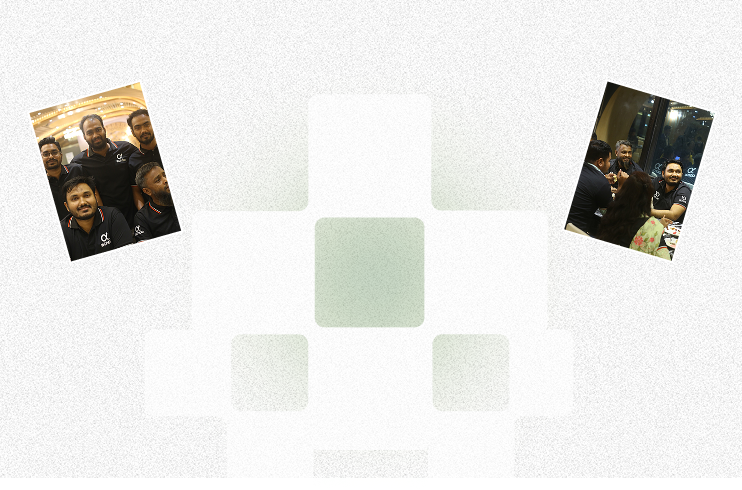
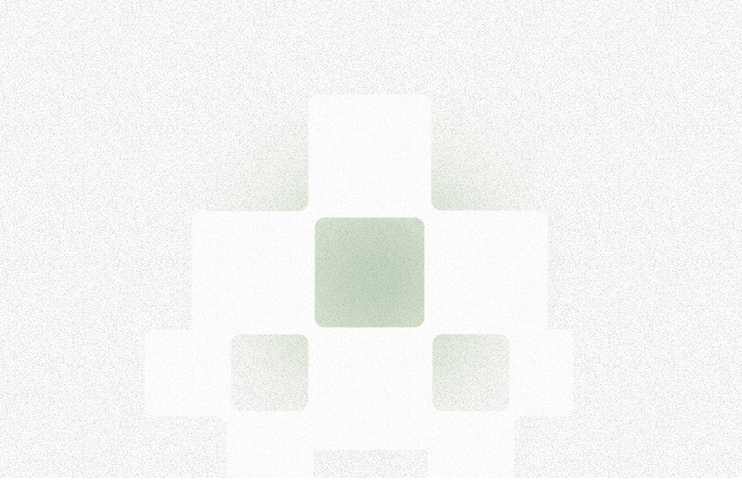
update about

Changed region(s): [[0.7439, 0.1531, 0.9609, 0.551], [0.031, 0.1531, 0.248, 0.551]]

diff --git a/src/app/(website)/about/components/CompanyInside.tsx b/src/app/(website)/about/components/CompanyInside.tsx
@@ -3,6 +3,9 @@ import React from "react";
 import CountUp from "react-countup";
 import { useInView } from "react-intersection-observer";
 import { motion } from "framer-motion";
+import company1 from '/public/about/companyimg_1.png';
+import company2 from '/public/about/companyimg_2.png';
+import Image from "next/image";
 
 const CompanyInside = () => {
   const { ref, inView } = useInView({ triggerOnce: true, threshold: 0.3 });
@@ -26,23 +29,33 @@ const CompanyInside = () => {
         whileInView="animate"
         transition={{ duration: 0.7 }}
         viewport={{ once: true, amount: 0.4 }}
-        className="lg:pt-0 md:pt-11 pt-6 text-[40px] md:text-[55px] lg:text-[90px] font-bold text-primary text-center uppercase leading-10 lg:leading-[99px] lg:mb-[181px]"
-      >
+        className="lg:pt- 0 md:pt-11 pt-6 text-[40px] md:text-[55px] lg:text-[90px] font-bold text-primary text-center uppercase leading-10 lg:leading-[99px] lg:mb-[181px] heading_company">
         company <br />
         <span className="text-[30px] md:text-[40px] lg:text-[80px] font-medium">
           inside..
         </span>
       </motion.h1>
+      <Image
+        className="absolute 
+        top-[36%] right-[21%] float-animation company_img1"
+        src={company1}
+        alt=""
+      />
+
+      <Image
+        className="absolute top-[36%] left-[21%] float-reverse company_img2"
+        src={company2}
+        alt=""
+      />
 
       {/* Mobile Section */}
       <div className="lg:hidden md:hidden company_mobile flex px-8 mt-[58px] justify-between">
         {data.map(({ label, end, suffix }, i) => (
           <div
             key={label}
-            
-            className={`text-center ${
-              i === 1 ? "absolute top-[160px] left-[133px] comapny_first_count" : "mt-[60px]"
-            }`}
+
+            className={`text-center ${i === 1 ? "absolute top-[160px] left-[133px] comapny_first_count" : "mt-[60px]"
+              }`}
           >
             <motion.p
               variants={fadeUp}
@@ -64,7 +77,7 @@ const CompanyInside = () => {
       </div>
 
       {/* Large screen */}
-      <div className="lg:px-[277px] lg_screen_px px-8 lg:flex md:flex company_inside hidden lg:mt-0 mt-[190px] justify-between">
+      <div className="lg:px-[277px] lg_screen_px px-8 lg:flex md:flex company_inside hidden lg:mt-0 mt-[190px] justify-between relative">
         {data.map(({ label, end, suffix }, i) => (
           <motion.div
             key={label}

diff --git a/src/app/globals.css b/src/app/globals.css
@@ -988,9 +988,31 @@ input[type="range"]::-moz-range-thumb {
 }
 
 @media (min-width:320px) and (max-width:699px) {
+
+  /* about */
+  .company_img1 {
+    width: 97px;
+    height: 100px;
+    top: 22%;
+    right: 4%;
+  }
+
+  .company_img2 {
+    width: 97px;
+    height: 100px;
+    top: 22%;
+    left: 4%;
+  }
+
+  /* about */
+
   .buisness_left_img {
     left: 2%;
     bottom: 14%;
+  }
+
+  .case_portfolio_wrap {
+    margin-inline: 16px;
   }
 
   .buisness_1 {
@@ -1417,7 +1439,38 @@ input[type="range"]::-moz-range-thumb {
 
 }
 
+@keyframes floatUpDown {
+
+  0%,
+  100% {
+    transform: translateY(0);
+  }
+
+  50% {
+    transform: translateY(-10px);
+  }
+}
+
+.float-animation {
+  animation: floatUpDown 3s ease-in-out infinite;
+}
+
+.float-reverse {
+  animation: floatUpDown 3s ease-in-out infinite;
+  animation-direction: alternate;
+}
+
+
 @media (min-width:700px) and (max-width:744px) {
+
+  /* about */
+  .social_md_icons {
+    column-gap: 9px;
+  }
+
+  /* about */
+
+
 
   .compatible_wrapppers {
     gap: 110px !important;
@@ -1463,6 +1516,29 @@ input[type="range"]::-moz-range-thumb {
 }
 
 @media (min-width:700px) and (max-width:1023px) {
+  .member_grid {
+    grid-template-columns: repeat(2, minmax(0, 1fr)) !important;
+
+  }
+
+  .company_img1 {
+    top: 22% !important;
+    right: 5% !important;
+  }
+
+  .heading_company {
+    font-size: 55px;
+    padding-top: 44px;
+  }
+
+  .heading_company span {
+    font-size: 40px;
+  }
+
+  .company_img2 {
+    top: 22% !important;
+    left: 5% !important;
+  }
 
   /* case study */
   .bannerText_m {
@@ -2354,6 +2430,15 @@ input[type="range"]::-moz-range-thumb {
 }
 
 @media (min-width:1024px) and (max-width:1279px) {
+
+  .company_img1 {
+    right: 5%;
+  }
+
+  .company_img2 {
+    left: 5%;
+  }
+
   .buisness_main_img {
     width: 800px;
   }
@@ -2887,6 +2972,15 @@ input[type="range"]::-moz-range-thumb {
 }
 
 @media (min-width:1280px) and (max-width:1440px) {
+
+  .company_img1 {
+    right: 21%;
+  }
+
+  .company_img2 {
+    left: 21%;
+  }
+
   .products_parent {
     padding-inline: 80px;
   }
@@ -3270,6 +3364,13 @@ input[type="range"]::-moz-range-thumb {
 
 
 @media (min-width:1806px) and (max-width:1920px) {
+  .company_img1 {
+    right: 17%;
+  }
+
+  .company_img2 {
+    left: 17%;
+  }
 
   .products_parent {
     padding-inline: 215px;

diff --git a/src/app/(website)/about/components/OurMembers.tsx b/src/app/(website)/about/components/OurMembers.tsx
@@ -121,7 +121,7 @@ const OurMembers = () => {
         viewport={{ once: true, amount: 0.3 }}
         className="text-white text-start mb-8"
       >
-        <div className="flex justify-between our_member_wrapper items-end  mb-10 ">
+        <div className="flex justify-between our_member_wrapper items-end mb-4 lg:mb-10 ">
           <div>
             <p className="text-[#F52366] text-base font-bold mb-1 flex gap-1 items-center">
               <svg
@@ -142,7 +142,7 @@ const OurMembers = () => {
               OUR MEMBERS
             </h2>
           </div>
-          <div className="hidden md:flex our_member_btn1 lg:mt-[60px] mt-6 justify-center">
+          <div className="hidden md_flex md:flex our_member_btn1 lg:mt-[60px] mt-6 justify-center">
             <button className="   hover:bg-transparent border border-[#2353F5] bg-[#2353F5] flex gap-2 items-center justify-center  text-white text-base font-bold lg:py-[21px] px-6 py-[13px] lg:px-[36px] rounded-[10px] transition">
               Join Our Team Today
               <svg
@@ -163,7 +163,7 @@ const OurMembers = () => {
       </motion.div>
 
       {/* Member cards */}
-      <div className="grid lg:grid-cols-3 sm:grid-cols-1 md:grid-cols-2 gap-4 md:gap-[18px] lg:gap-6 max-w-6xl mx-auto">
+      <div className="grid lg:grid-cols-3 sm:grid-cols-1 md:grid-cols-2 gap-4 md:gap-[18px] lg:gap-6 max-w-6xl mx-auto  member_grid">
         {teamMembers.map((member, idx) => (
           <motion.div
             key={member.id}
@@ -201,7 +201,7 @@ const OurMembers = () => {
         whileInView="whileInView"
         transition={{ duration: 0.7, delay: teamMembers.length * 0.1 }}
         viewport={{ once: true }}
-        className="lg:mt-[60px] mt-6 lg:hidden flex justify-center"
+        className="lg:mt-[60px] mt-6 lg:hidden md_hidden flex justify-center"
       >
         <button className="flex gap-2 items-center justify-center 
         hover:bg-transparent border border-[#2353F5] bg-[#2353F5]  text-white text-base font-bold capitalize lg:py-[21px] px-6 py-[13px] lg:px-[36px] rounded-[10px] transition-all ease-in-out duration-500">

diff --git a/src/app/(website)/about/components/AboutBanner.tsx b/src/app/(website)/about/components/AboutBanner.tsx
@@ -124,6 +124,7 @@ import { IoLogoDribbble } from "react-icons/io";
 import arrow from "/public/about/arrow.png";
 import Image from "next/image";
 import { motion } from "framer-motion";
+import Link from "next/link";
 
 const fadeIn = (delay = 0) => ({
   hidden: { opacity: 0, y: 40 },
@@ -170,7 +171,7 @@ const AboutBanner = () => {
               Dhaka, Bangladesh
             </p>
           </div>
-          <a href="#" className="text-blue-600 hover:underline">
+          <Link href="#" className="text-blue-600 hover:underline">
             <svg
               xmlns="http://www.w3.org/2000/svg"
               width="18"
@@ -186,7 +187,7 @@ const AboutBanner = () => {
                 strokeLinejoin="round"
               />
             </svg>
-          </a>
+          </Link>
         </motion.div>
 
         {/* Main Title */}
@@ -223,7 +224,7 @@ const AboutBanner = () => {
       {/* Social Icons */}
       <motion.div
         variants={staggerContainer}
-        className="absolute right-10 lg:right-[50px] social_md_icons md:top-1/2 lg:top-1/2 transform -translate-y-1/2 flex flex-row md:flex-col lg:flex-col space-y-4 space-x-4"
+        className="absolute right-10 lg:right-[50px] social_md_icons md:top-1/2 lg:top-1/2 transform -translate-y-1/2 flex flex-row md:flex-col lg:flex-col space-y-2.5 lg:space-y-4 space-x-4"
       >
         {socialIcons.map((Icon, index) => (
           <motion.div

diff --git a/src/app/(website)/about/components/Roadmap.tsx b/src/app/(website)/about/components/Roadmap.tsx
@@ -37,7 +37,7 @@ const fadeUp = {
 
 const Roadmap = () => {
   return (
-    <div className="lg:py-[120px] lg_screen_px md:py-[30px] py-6 lg:px-[150px] md:px-5 px-0">
+    <div className="lg:py-[120px] lg_screen_px md:py-[30px] py-6 lg:px-[150px] px-5 ">
       <div className="grid grid-cols-12 justify-center">
         <motion.div
           className="col-span-12 lg:col-span-4"
@@ -48,7 +48,7 @@ const Roadmap = () => {
           viewport={{ once: true, amount: 0.3 }}
         >
           <div className="flex lg:flex-col flex-row justify-between items-center lg:mb-0 md:mb-5 mb-6">
-            <div className="lg:px-0 md:px-0 px-5">
+            <div className="">
               <p className="text-[#F52366] text-base font-bold flex gap-2 items-center">
                 {/* SVG omitted for brevity */}
                 Roadmap about company
@@ -82,7 +82,7 @@ const Roadmap = () => {
                   </span>
                 </div>
                 <div>
-                  <h3 className="w-[172px] text-xl lg:text-[28px] font-bold leading-[32px]">
+                  <h3 className="w-[172px] text-lg md:text-xl lg:text-[28px] font-bold leading-[32px]">
                     {item.title}
                   </h3>
                 </div>

diff --git a/src/app/(website)/case-study/components/Portfolio.tsx b/src/app/(website)/case-study/components/Portfolio.tsx
@@ -11,7 +11,7 @@ const Portfolio = () => {
   const imageRefs = useRef<(HTMLDivElement | null)[]>([]);
 
   const [mousePosition, setMousePosition] = useState({ x: 0, y: 0 });
-  const [isHovered, setIsHovered] = useState<number | null>(null); // Track which image is hovered
+  const [isHovered, setIsHovered] = useState<number | null>(null);
   const handleMouseMove = (e: React.MouseEvent, index: number) => {
     const imageDiv = imageRefs.current[index];
     if (imageDiv) {
@@ -41,7 +41,7 @@ const Portfolio = () => {
         { src: work3, alt: "PosPro SaaS Project", title: "PosPro SaaS Project" },
         { src: work4, alt: "Business card design", title: "Business card design" },
       ].map((project, index) => (
-        <motion.div key={index} className={`${index % 2 === 1 ? "lg:mt-[100px] " : ""}`}>
+        <motion.div key={index} className={`mt-5 lg:mt-0 ${index % 2 === 1 ? "lg:mt-[100px] " : ""}`}>
           <div
             className="relative"
             ref={(el: HTMLDivElement | null) => {

diff --git a/src/app/(website)/about/components/Work.tsx b/src/app/(website)/about/components/Work.tsx
@@ -35,7 +35,7 @@ const Work = () => {
   const handleMouseLeave = () => setIsHovered(null);
 
   return (
-    <div className="lg:mb-[250px]">
+    <div className="mb-10 lg:mb-[250px]">
       <div className="containers lg_screen_px px-5 mt-6 lg:mt-[100px]">
         <motion.div
           initial={{ opacity: 0, x: -40 }}
